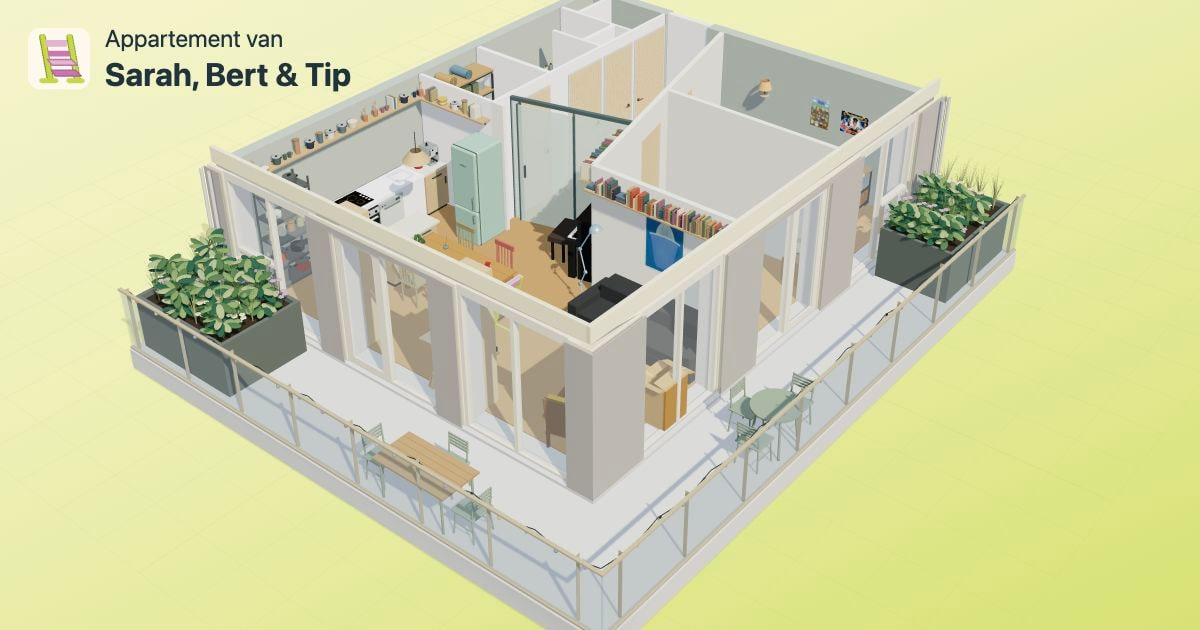
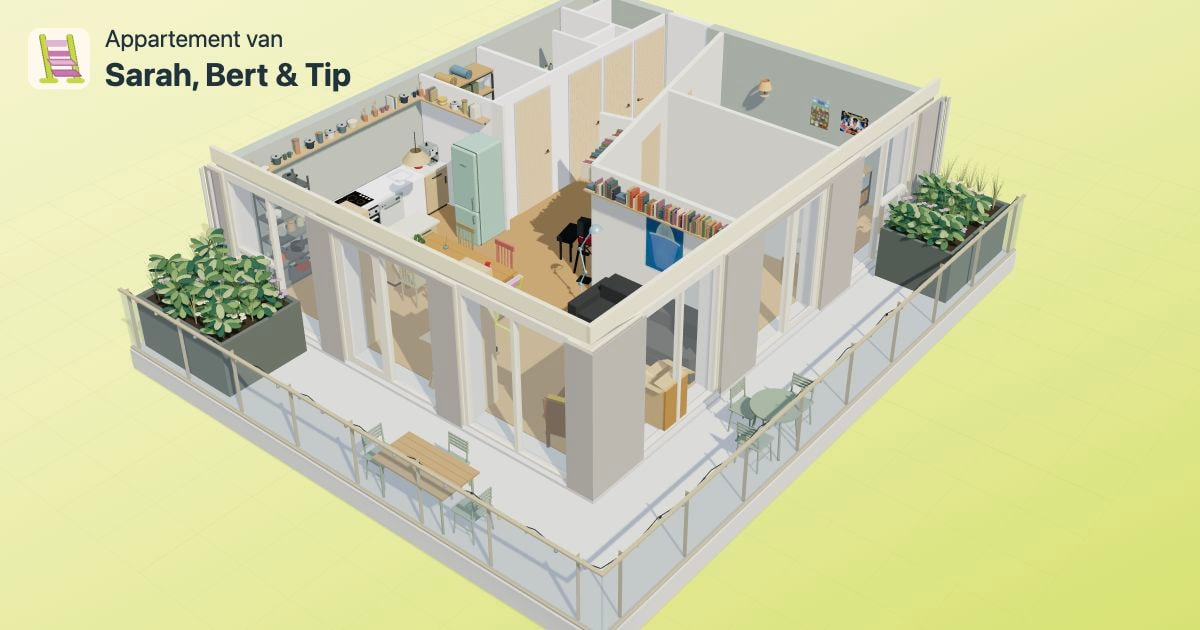
Make short hallway wall the default layout

Changed region(s): [[0.4008, 0.1508, 0.5242, 0.4524]]

diff --git a/src/routes/preview-render/+page.svelte b/src/routes/preview-render/+page.svelte
@@ -14,7 +14,7 @@
     apartment=await createApartment(host,()=>{});
     if(disposed){apartment.destroy();return;}
     apartment.view('preview');
-    apartment.update({floor:'oak',light:'day',furniture:true,doorOpen:0,hallway:'sliding',doorsOpen:false,instrument:'nord',tipAge:'child'});
+    apartment.update({floor:'oak',light:'day',furniture:true,doorOpen:0,hallway:'short-wall',doorsOpen:false,instrument:'nord',tipAge:'child'});
     await document.fonts.ready;
     // Let the renderer draw the updated furniture before declaring the image ready.
     await new Promise<void>(resolve=>requestAnimationFrame(()=>requestAnimationFrame(()=>resolve())));

diff --git a/src/routes/+page.svelte b/src/routes/+page.svelte
@@ -14,7 +14,7 @@
  let tipAge:'child'|'teen'='child';
  let instrument:'upright'|'nord'='nord';
  let floor='oak',light='day',furniture=true,doorOpen=0,doorsOpen=false;
- let hallway:HallwayMode='sliding';
+ let hallway:HallwayMode='short-wall';
  let ready=false,error='',hint='Het appartement laden…',mode='orbit';
  function update(){api?.update({floor,light,furniture,doorOpen,hallway,doorsOpen,instrument,tipAge});}
  $: if(ready && api) api.update({floor,light,furniture,doorOpen,hallway,doorsOpen,instrument,tipAge});

diff --git a/src/lib/sketch-layout.ts b/src/lib/sketch-layout.ts
@@ -28,7 +28,7 @@ export function getHallwayEnd(): Point {
  const t=((start[0]-a[0])*dx+(start[1]-a[1])*dz)/(dx*dx+dz*dz);
  return [a[0]+t*dx,a[1]+t*dz];
 }
-export function addSketchLayout(group:T.Group,open:number,hallway:HallwayMode='sliding'){
+export function addSketchLayout(group:T.Group,open:number,hallway:HallwayMode='short-wall'){
  group.name='Room layout from hand sketch';
  const height=2.62;
  function segment(a:Point,b:Point,thickness=.1,h=height,y=h/2,material?:T.Material){

diff --git a/README.md b/README.md
@@ -32,7 +32,7 @@ SvelteKit: https://github.com/sveltejs/kit (MIT)
 
 ## Hand sketch layout
 
-The default layout now follows `PXL_20260905_101619644.jpg`: two bedrooms along the bottom facade, a diagonal bedroom front wall, and a short slanted translucent hallway/living partition. The Hall controls offer a translucent sliding partition (the default), no partition, or a full-height short wall beside the piano. The short wall follows the same line from the bedroom wall for 70 cm, matching the piano front including its rear clearance; it is 10 cm thick and 2.62 m high. The sliding-door control is shown only in sliding mode and moves the leaf over the fixed panel. Coordinates are traced approximately and stored in `src/lib/sketch-layout.ts`. Bedroom entry positions and frosted material properties are provisional. The original service-core geometry is shown in sketch mode.
+The default layout now follows `PXL_20260905_101619644.jpg`: two bedrooms along the bottom facade, a diagonal bedroom front wall, and a short wall beside the piano. The Hall controls offer a translucent sliding partition, no partition, or a full-height short wall beside the piano (the default). The short wall follows the same line from the bedroom wall for 70 cm, matching the piano front including its rear clearance; it is 10 cm thick and 2.62 m high. The sliding-door control is shown only in sliding mode and moves the leaf over the fixed panel. Coordinates are traced approximately and stored in `src/lib/sketch-layout.ts`. Bedroom entry positions and frosted material properties are provisional. The original service-core geometry is shown in sketch mode.
 
 ## Wraparound balcony
 
